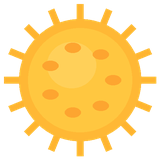
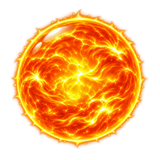
feat(hrb): v0.77.15 approved Mini Sol plasma artwork via PTAB

diff --git a/sw.js b/sw.js
@@ -1,4 +1,4 @@
-const CACHE='hrb-v77-20261125-baguette-art-approved-sports-14';
+const CACHE='hrb-v77-20261125-baguette-art-approved-sports-15';
 const ASSETS=['./','./index.html','./style.css','./manifest.webmanifest','./src/main.js','./src/gulls.js','./src/pitcher.js','./src/engine.js','./src/world.js','./src/biomes.js','./src/game.js','./src/logic.js','./src/audio.js','./src/rewarded.js','./src/aiming.js','./src/sprites.js','./src/traffic.js','./src/discoveries.js','./src/cosmetic-render.js','./src/cosmetic-catalog.js','./src/cosmetic-art.js','./src/baked-assets.js','./assets/baked/manifest.json','./src/impact-fx.js','./src/ball-visuals.js','./src/ball-spin.js','./assets/materials-atlas-v2.png',
  './assets/strike.mp3','./assets/audio/bat-cgeffex.wav','./assets/baseball.webp',
  './assets/bat.webp','./assets/hit-spark.webp','./assets/swing-trail.webp',
@@ -7,10 +7,10 @@ const ASSETS=['./','./index.html','./style.css','./manifest.webmanifest','./src/
  './assets/batter/contact.webp','./assets/batter/follow.webp',
  './icons/icon-32.png','./icons/icon-180.png','./icons/icon-192.png','./icons/icon-512.png',
  './icons/icon-32.png?v=0.77.0','./icons/icon-180.png?v=0.77.0','./icons/icon-192.png?v=0.77.0','./icons/icon-512.png?v=0.77.0',
- './manifest.webmanifest?v=0.77.0','./style.css?v=0.77.0','./src/main.js?v=0.77.14','./src/game.js?v=0.77.14',
- './src/gulls.js?v=0.77.14','./src/pitcher.js?v=0.77.14','./src/world.js?v=0.77.14','./src/biomes.js?v=0.77.14','./src/engine.js?v=0.77.14','./src/logic.js?v=0.77.14',
- './src/audio.js?v=0.77.14','./src/rewarded.js?v=0.77.14','./src/aiming.js?v=0.77.14',
- './src/sprites.js?v=0.77.14','./src/traffic.js?v=0.77.14','./src/discoveries.js?v=0.77.14','./src/cosmetic-render.js?v=0.77.14','./src/cosmetic-catalog.js?v=0.77.14','./src/cosmetic-art.js?v=0.77.14','./src/baked-assets.js?v=0.77.14','./src/impact-fx.js?v=0.77.14','./src/ball-visuals.js?v=0.77.14','./src/ball-spin.js?v=0.77.14','./assets/materials-atlas-v2.png?v=0.77.0','./assets/strike.mp3?v=0.77.0','./assets/audio/bat-cgeffex.wav?v=0.77.0'];
+ './manifest.webmanifest?v=0.77.0','./style.css?v=0.77.0','./src/main.js?v=0.77.15','./src/game.js?v=0.77.15',
+ './src/gulls.js?v=0.77.15','./src/pitcher.js?v=0.77.15','./src/world.js?v=0.77.15','./src/biomes.js?v=0.77.15','./src/engine.js?v=0.77.15','./src/logic.js?v=0.77.15',
+ './src/audio.js?v=0.77.15','./src/rewarded.js?v=0.77.15','./src/aiming.js?v=0.77.15',
+ './src/sprites.js?v=0.77.15','./src/traffic.js?v=0.77.15','./src/discoveries.js?v=0.77.15','./src/cosmetic-render.js?v=0.77.15','./src/cosmetic-catalog.js?v=0.77.15','./src/cosmetic-art.js?v=0.77.15','./src/baked-assets.js?v=0.77.15','./src/impact-fx.js?v=0.77.15','./src/ball-visuals.js?v=0.77.15','./src/ball-spin.js?v=0.77.15','./assets/materials-atlas-v2.png?v=0.77.0','./assets/strike.mp3?v=0.77.0','./assets/audio/bat-cgeffex.wav?v=0.77.0'];
 const OPTIONAL_AUDIO=[
  './assets/audio/bat-cgeffex.mp3?v=0.77.0',
  './assets/audio/asphalt-ball.mp3?v=0.77.0',
@@ -31,7 +31,7 @@ self.addEventListener('install',e=>e.waitUntil(
    ...manifest.balls.map(id=>'./assets/baked/balls/'+id+'.webp')
   ];
   if(previews.length!==100)throw Error('Catálogo incompleto');
-  for(let i=0;i<previews.length;i+=12)await cache.addAll(previews.slice(i,i+12).map(p=>p+(/\/outfits\/chef\/ready\.webp$/.test(p)?'?v=0.77.14':/\/outfits\/luchador\/ready\.webp$/.test(p)?'?v=0.77.13':/\/bats\/trucha\.webp$/.test(p)?'?v=0.77.12':/\/balls\/playa\.webp$/.test(p)?'?v=0.77.11':/\/bats\/martillo\.webp$/.test(p)?'?v=0.77.10':/\/outfits\/basket_lila\/ready\.webp$/.test(p)?'?v=0.77.9':/\/balls\/(?:naranja|nieve)\.webp$/.test(p)?'?v=0.77.8':/\/outfits\/(?:hockey_hielo|basket_rojo)\/ready\.webp$/.test(p)?'?v=0.77.6':/\/bats\/(?:escoba|platano)\.webp$/.test(p)?'?v=0.77.5':/\/outfits\/(?:basket_negro|atletismo|tenis_blanco)\/ready\.webp$/.test(p)?'?v=0.77.4':/\/(?:balls\/(?:tenis|arcoiris)\.webp|bats\/(?:nova|paraguas)\.webp)$/.test(p)?'?v=0.77.3':p.includes('/outfits/futbol_verde/')?'?v=0.77.2':p.includes('/outfits/futbol_rojo/')?'?v=0.77.1':'?v=0.77.0')));
+  for(let i=0;i<previews.length;i+=12)await cache.addAll(previews.slice(i,i+12).map(p=>p+(/\/balls\/sol\.webp$/.test(p)?'?v=0.77.15':/\/outfits\/chef\/ready\.webp$/.test(p)?'?v=0.77.14':/\/outfits\/luchador\/ready\.webp$/.test(p)?'?v=0.77.13':/\/bats\/trucha\.webp$/.test(p)?'?v=0.77.12':/\/balls\/playa\.webp$/.test(p)?'?v=0.77.11':/\/bats\/martillo\.webp$/.test(p)?'?v=0.77.10':/\/outfits\/basket_lila\/ready\.webp$/.test(p)?'?v=0.77.9':/\/balls\/(?:naranja|nieve)\.webp$/.test(p)?'?v=0.77.8':/\/outfits\/(?:hockey_hielo|basket_rojo)\/ready\.webp$/.test(p)?'?v=0.77.6':/\/bats\/(?:escoba|platano)\.webp$/.test(p)?'?v=0.77.5':/\/outfits\/(?:basket_negro|atletismo|tenis_blanco)\/ready\.webp$/.test(p)?'?v=0.77.4':/\/(?:balls\/(?:tenis|arcoiris)\.webp|bats\/(?:nova|paraguas)\.webp)$/.test(p)?'?v=0.77.3':p.includes('/outfits/futbol_verde/')?'?v=0.77.2':p.includes('/outfits/futbol_rojo/')?'?v=0.77.1':'?v=0.77.0')));
  }).then(()=>self.skipWaiting())
 ));
 self.addEventListener('activate',e=>e.waitUntil(caches.keys().then(keys=>Promise.all(keys.filter(k=>k!==CACHE).map(k=>caches.delete(k)))).then(()=>self.clients.claim())));

diff --git a/src/game.js b/src/game.js
@@ -1,18 +1,18 @@
-import {Renderer,CanvasRenderer,lerp} from './engine.js?v=0.77.14';
-import {drawWorld,groundAt,areaAt,traceBuildingCollision,traceStadiumContainerCollision,traceStadiumFenceCollision} from './world.js?v=0.77.14';
-import {traceSideBoundary,WORLD_CENTER_X,WORLD_HALF_WIDTH} from './biomes.js?v=0.77.14';
-import {SAVE_KEY,sanitizeSave,initialSave,formatInt,upgradeCost,upgrade,bonusCredits,bonusProgress,BONUS_EVERY,claimBonus,skillMaxLevel,calculateShot,pitchTimingDeltaMs,pitchTimingGuide,settleShot,forwardDistance,coinMultiplier,MILESTONES,COSMETICS,OUTFITS,BALL_STYLES,SHOP_SECTIONS,equipCosmetic,qualityNames,clamp} from './logic.js?v=0.77.14';
-import {recordDiscoveryShot,discoveredCount,nextDiscoveryHint,isDiscovered} from './discoveries.js?v=0.77.14';
-import {GameAudio} from './audio.js?v=0.77.14';
-import {hasRewardedAds,showRewardedAd} from './rewarded.js?v=0.77.14';
-import {aimSweep,aimBarPosition,aimSweetHalf,preciseAim,redirectShot,aimDegrees,SWEEP_MAX_RAD} from './aiming.js?v=0.77.14';
-import {BatterSprites} from './sprites.js?v=0.77.14';
-import {bakedAssetUrl} from './baked-assets.js?v=0.77.14';
-import {ImpactEffects,hitStopDuration} from './impact-fx.js?v=0.77.14';
-import {initBallSpin,onSpinImpact,integratePhysicalSpin,advanceVisualSpin,freezeBallSpin} from './ball-spin.js?v=0.77.14';
-import {traceTrafficCollision,trafficDeflection} from './traffic.js?v=0.77.14';
-import {pitcherReactionPlan} from './pitcher.js?v=0.77.14';
-import {planGullEncounter,traceGullCollision,gullDeflection} from './gulls.js?v=0.77.14';
+import {Renderer,CanvasRenderer,lerp} from './engine.js?v=0.77.15';
+import {drawWorld,groundAt,areaAt,traceBuildingCollision,traceStadiumContainerCollision,traceStadiumFenceCollision} from './world.js?v=0.77.15';
+import {traceSideBoundary,WORLD_CENTER_X,WORLD_HALF_WIDTH} from './biomes.js?v=0.77.15';
+import {SAVE_KEY,sanitizeSave,initialSave,formatInt,upgradeCost,upgrade,bonusCredits,bonusProgress,BONUS_EVERY,claimBonus,skillMaxLevel,calculateShot,pitchTimingDeltaMs,pitchTimingGuide,settleShot,forwardDistance,coinMultiplier,MILESTONES,COSMETICS,OUTFITS,BALL_STYLES,SHOP_SECTIONS,equipCosmetic,qualityNames,clamp} from './logic.js?v=0.77.15';
+import {recordDiscoveryShot,discoveredCount,nextDiscoveryHint,isDiscovered} from './discoveries.js?v=0.77.15';
+import {GameAudio} from './audio.js?v=0.77.15';
+import {hasRewardedAds,showRewardedAd} from './rewarded.js?v=0.77.15';
+import {aimSweep,aimBarPosition,aimSweetHalf,preciseAim,redirectShot,aimDegrees,SWEEP_MAX_RAD} from './aiming.js?v=0.77.15';
+import {BatterSprites} from './sprites.js?v=0.77.15';
+import {bakedAssetUrl} from './baked-assets.js?v=0.77.15';
+import {ImpactEffects,hitStopDuration} from './impact-fx.js?v=0.77.15';
+import {initBallSpin,onSpinImpact,integratePhysicalSpin,advanceVisualSpin,freezeBallSpin} from './ball-spin.js?v=0.77.15';
+import {traceTrafficCollision,trafficDeflection} from './traffic.js?v=0.77.15';
+import {pitcherReactionPlan} from './pitcher.js?v=0.77.15';
+import {planGullEncounter,traceGullCollision,gullDeflection} from './gulls.js?v=0.77.15';
 const el=id=>document.getElementById(id);
 // Rozamiento continuo por segundo: una cola de rodadura algo más larga,
 // independiente de los FPS, sin alterar el vuelo ni la pérdida al rebotar.

diff --git a/tests/pwa-refresh.test.js b/tests/pwa-refresh.test.js
@@ -8,12 +8,12 @@ test('v0.50 evita mezclar versiones de CSS, JS, WebAudio y PWA en caché',()=>{
  const sw=readFileSync(new URL('../sw.js',import.meta.url),'utf8');
  const main=readFileSync(new URL('../src/main.js',import.meta.url),'utf8');
  assert.match(html,/style\.css\?v=0\.77\.0/);
- assert.match(html,/src\/main\.js\?v=0\.77\.14/);
- assert.match(main,/game\.js\?v=0\.77\.14/);
+ assert.match(html,/src\/main\.js\?v=0\.77\.15/);
+ assert.match(main,/game\.js\?v=0\.77\.15/);
  for(const src of ['main.js','logic.js','engine.js','game.js','world.js','sprites.js','traffic.js','discoveries.js','cosmetic-render.js','cosmetic-catalog.js','cosmetic-art.js','baked-assets.js','impact-fx.js']){
   const code=readFileSync(new URL('../src/'+src,import.meta.url),'utf8');
   for(const [,path] of code.matchAll(/from '(\.\/[^']+\.js(?:\?[^']+)?)'/g)){
-   assert.ok(path.endsWith('?v=0.77.14'),src+' importa módulo sin versión: '+path);
+   assert.ok(path.endsWith('?v=0.77.15'),src+' importa módulo sin versión: '+path);
   }
  }
  assert.match(sw,/hrb-v77-20261125-baguette-art/);
@@ -21,14 +21,14 @@ test('v0.50 evita mezclar versiones de CSS, JS, WebAudio y PWA en caché',()=>{
  assert.match(sw,/caches\.match\(request\)/);
  assert.match(sw,/clients\.claim/);
  assert.match(sw,/\.\/assets\/strike\.mp3/);
- assert.match(sw,/\.\/src\/biomes\.js\?v=0\.77\.14/);
- assert.match(sw,/\.\/src\/cosmetic-render\.js\?v=0\.77\.14/);
- assert.match(sw,/\.\/src\/cosmetic-catalog\.js\?v=0\.77\.14/);
- assert.match(sw,/\.\/src\/cosmetic-art\.js\?v=0\.77\.14/);
- assert.match(sw,/\.\/src\/baked-assets\.js\?v=0\.77\.14/);
+ assert.match(sw,/\.\/src\/biomes\.js\?v=0\.77\.15/);
+ assert.match(sw,/\.\/src\/cosmetic-render\.js\?v=0\.77\.15/);
+ assert.match(sw,/\.\/src\/cosmetic-catalog\.js\?v=0\.77\.15/);
+ assert.match(sw,/\.\/src\/cosmetic-art\.js\?v=0\.77\.15/);
+ assert.match(sw,/\.\/src\/baked-assets\.js\?v=0\.77\.15/);
  assert.match(sw,/\.\/assets\/baked\/manifest\.json/);
- assert.match(sw,/\.\/src\/traffic\.js\?v=0\.77\.14/);
- assert.match(sw,/\.\/src\/discoveries\.js\?v=0\.77\.14/);
+ assert.match(sw,/\.\/src\/traffic\.js\?v=0\.77\.15/);
+ assert.match(sw,/\.\/src\/discoveries\.js\?v=0\.77\.15/);
  assert.doesNotMatch(sw,/assets\/traffic\//);
 });
 
@@ -82,7 +82,7 @@ test('sprites aprobados persisten durante apuntado, sin dibujar la flecha antigu
 });
 
  test('Baskonia name is identical in the versioned catalog and discovery',async()=>{
- const {OUTFIT_CATALOG}=await import('../src/cosmetic-catalog.js?v=0.77.14');
+ const {OUTFIT_CATALOG}=await import('../src/cosmetic-catalog.js?v=0.77.15');
  const item=OUTFIT_CATALOG.find(x=>x.id==='basket_rojo');
  assert.equal(item.name,'Baloncesto Baskonia');
  assert.equal(item.price,3800);

diff --git a/src/baked-assets.js b/src/baked-assets.js
@@ -8,7 +8,7 @@ export function bakedAssetUrl(category,id,pose='ready',withoutBat=false){
  if(!/^[a-z0-9_]+$/.test(String(id)))throw Error('Invalid cosmetic id');
  // Versionar también los WEBP horneados: Safari/PWA no debe conservar
  // ni la pelota de tenis lisa ni poses con restos del bate anterior.
- const stamp=category==='outfit'&&id==='chef'?'?v=0.77.14':category==='outfit'&&id==='luchador'?'?v=0.77.13':category==='bat'&&id==='trucha'?'?v=0.77.12':category==='ball'&&id==='playa'?'?v=0.77.11':category==='bat'&&id==='martillo'?'?v=0.77.10':category==='outfit'&&id==='basket_lila'?'?v=0.77.9':category==='ball'&&['naranja','nieve'].includes(id)?'?v=0.77.8':category==='outfit'&&['hockey_hielo','basket_rojo'].includes(id)?'?v=0.77.6':category==='bat'&&['escoba','platano'].includes(id)?'?v=0.77.5':category==='outfit'&&['basket_negro','atletismo','tenis_blanco'].includes(id)?'?v=0.77.4':(category==='ball'&&['tenis','arcoiris'].includes(id)||category==='bat'&&['nova','paraguas'].includes(id))?'?v=0.77.3':category==='outfit'&&id==='futbol_verde'?'?v=0.77.2':id==='futbol_rojo'&&category==='outfit'?'?v=0.77.1':'?v=0.77.0';
+ const stamp=category==='ball'&&id==='sol'?'?v=0.77.15':category==='outfit'&&id==='chef'?'?v=0.77.14':category==='outfit'&&id==='luchador'?'?v=0.77.13':category==='bat'&&id==='trucha'?'?v=0.77.12':category==='ball'&&id==='playa'?'?v=0.77.11':category==='bat'&&id==='martillo'?'?v=0.77.10':category==='outfit'&&id==='basket_lila'?'?v=0.77.9':category==='ball'&&['naranja','nieve'].includes(id)?'?v=0.77.8':category==='outfit'&&['hockey_hielo','basket_rojo'].includes(id)?'?v=0.77.6':category==='bat'&&['escoba','platano'].includes(id)?'?v=0.77.5':category==='outfit'&&['basket_negro','atletismo','tenis_blanco'].includes(id)?'?v=0.77.4':(category==='ball'&&['tenis','arcoiris'].includes(id)||category==='bat'&&['nova','paraguas'].includes(id))?'?v=0.77.3':category==='outfit'&&id==='futbol_verde'?'?v=0.77.2':id==='futbol_rojo'&&category==='outfit'?'?v=0.77.1':'?v=0.77.0';
  if(category==='outfit'){
   if(!OUTFIT_POSES.includes(pose))throw Error('Invalid pose');
   return './assets/baked/outfits/'+id+'/'+pose+(withoutBat?'-nobat':'')+'.webp'+stamp;

diff --git a/index.html b/index.html
@@ -42,7 +42,7 @@
         <div class="menu-stats"><span>RÉCORD <strong id="menu-best">0 m</strong></span><span>GOLPES <strong id="menu-shots">0</strong></span><span>REGIÓN <strong id="menu-region">ESTADIO</strong></span></div>
         <div class="menu-equipment" id="menu-equipment">🏏 Clásico · 👕 Rojo · ⚾ Blanca</div>
         <small>Sin registro · Partidas rápidas · Guardado local</small>
-        <small class="menu-version">VERSIÓN 0.77.14</small>
+        <small class="menu-version">VERSIÓN 0.77.15</small>
       </div>
     </div>
   </section>
@@ -185,7 +185,7 @@
         <button id="settings-reset" class="setting-action setting-danger">Restablecer todos los datos de este dispositivo</button>
         <p class="settings-explain">Sin registro. Monedas, mejoras y cosméticos solo en este dispositivo. Borrar datos es irreversible.</p>
       </div>
-      <div class="foot-note">Home Run Beyond · CraftRace Studio · Versión 0.77.14</div>
+      <div class="foot-note">Home Run Beyond · CraftRace Studio · Versión 0.77.15</div>
     </div>
   </section>
   <section class="layer modal-shell" id="welcome" hidden>
@@ -201,6 +201,6 @@
   </section>
   <div id="quality" class="quality low"><span>CALIDAD</span> <strong id="fps">— FPS</strong></div>
 </div>
-<script type="module" src="./src/main.js?v=0.77.14"></script>
+<script type="module" src="./src/main.js?v=0.77.15"></script>
 </body>
 </html>

diff --git a/src/world.js b/src/world.js
@@ -1,8 +1,8 @@
-import {lerp} from './engine.js?v=0.77.14';
-import {drawGulls} from './gulls.js?v=0.77.14';
-import {pitcherPose,PITCHER_Z} from './pitcher.js?v=0.77.14';
-import {visibleRoadTraffic,drawProceduralTraffic} from './traffic.js?v=0.77.14';
-import {WORLD_CENTER_X,WORLD_HALF_WIDTH,WORLD_WIDTH,biomeAt,biomeTransitionAt,biomeColorAt,mixColors,boundaryProfileAt} from './biomes.js?v=0.77.14';
+import {lerp} from './engine.js?v=0.77.15';
+import {drawGulls} from './gulls.js?v=0.77.15';
+import {pitcherPose,PITCHER_Z} from './pitcher.js?v=0.77.15';
+import {visibleRoadTraffic,drawProceduralTraffic} from './traffic.js?v=0.77.15';
+import {WORLD_CENTER_X,WORLD_HALF_WIDTH,WORLD_WIDTH,biomeAt,biomeTransitionAt,biomeColorAt,mixColors,boundaryProfileAt} from './biomes.js?v=0.77.15';
 // Mundo entero dibujado con primitivas low-poly, sin ningún asset externo.
 const PI=Math.PI;
 export const rand=(a,b=0)=>{let n=Math.sin(a*127.1+b*311.7+26.63)*43758.5453;return n-Math.floor(n)};

diff --git a/src/sprites.js b/src/sprites.js
@@ -1,8 +1,8 @@
-import {lookAt,perspective,mul4} from './engine.js?v=0.77.14';
-import {surfaceBelowBall,pitcherBallPosition} from './world.js?v=0.77.14';
-import {ballSpriteDiameter,ballShadowOpacity} from './ball-visuals.js?v=0.77.14';
-import {COSMETICS,OUTFITS,BALL_STYLES} from './logic.js?v=0.77.14';
-import {bakedAssetUrl,equippedAssetPaths,WEAPON_POSES,OUTFIT_WEAPON_POSES} from './baked-assets.js?v=0.77.14';
+import {lookAt,perspective,mul4} from './engine.js?v=0.77.15';
+import {surfaceBelowBall,pitcherBallPosition} from './world.js?v=0.77.15';
+import {ballSpriteDiameter,ballShadowOpacity} from './ball-visuals.js?v=0.77.15';
+import {COSMETICS,OUTFITS,BALL_STYLES} from './logic.js?v=0.77.15';
+import {bakedAssetUrl,equippedAssetPaths,WEAPON_POSES,OUTFIT_WEAPON_POSES} from './baked-assets.js?v=0.77.15';
 
 
 // Recortes 2.5D tomados de las tres láminas aprobadas. No hay re-render ni

diff --git a/tests/baked-assets.test.js b/tests/baked-assets.test.js
@@ -216,3 +216,13 @@ test('approved trout bat artwork survives the bake',()=>{
  assert.match(bakedAssetUrl('bat','trucha'),/v=0\.77\.12$/);
  assert.equal(BAT_CATALOG.find(x=>x.id==='trucha').price,4200);
 });
+
+
+test('approved Mini Sol plasma artwork survives the bake byte for byte',()=>{
+ const approved=readFileSync(new URL('../assets/approved/balls/sol.webp',import.meta.url));
+ const baked=readFileSync(new URL('../assets/baked/balls/sol.webp',import.meta.url));
+ assert.equal(approved.toString('ascii',8,12),'WEBP');
+ assert.deepEqual(baked,approved);
+ assert.match(bakedAssetUrl('ball','sol'),/v=0\.77\.15$/);
+ assert.equal(BALL_CATALOG.find(x=>x.id==='sol').price,4300);
+});

diff --git a/src/discoveries.js b/src/discoveries.js
@@ -2,7 +2,7 @@
 // Comprar/equipar es otra acción: el precio orienta cuándo revelar cada objeto,
 // pero gastar en habilidades nunca hace retroceder los descubrimientos.
 // Regla estable por ID para no reordenar lo descubierto al crecer el catálogo.
-import {BAT_CATALOG,OUTFIT_CATALOG,BALL_CATALOG} from './cosmetic-catalog.js?v=0.77.14';
+import {BAT_CATALOG,OUTFIT_CATALOG,BALL_CATALOG} from './cosmetic-catalog.js?v=0.77.15';
 
 export const COLLECTIONS=Object.freeze({bat:BAT_CATALOG,outfit:OUTFIT_CATALOG,ball:BALL_CATALOG});
 export const STARTER_DISCOVERIES=Object.freeze(['bat:classic','outfit:red','ball:classic']);

diff --git a/src/logic.js b/src/logic.js
@@ -1,5 +1,5 @@
-import {BAT_CATALOG,OUTFIT_CATALOG,BALL_CATALOG} from './cosmetic-catalog.js?v=0.77.14';
-import {STARTER_DISCOVERIES,INITIAL_DISCOVERY_STATS,sanitizeDiscovery,isDiscovered} from './discoveries.js?v=0.77.14';
+import {BAT_CATALOG,OUTFIT_CATALOG,BALL_CATALOG} from './cosmetic-catalog.js?v=0.77.15';
+import {STARTER_DISCOVERIES,INITIAL_DISCOVERY_STATS,sanitizeDiscovery,isDiscovered} from './discoveries.js?v=0.77.15';
 export const SAVE_KEY='hrb-v1-progress';
 export const MAX_LEVEL=10000;
 export const MULTIPLIER_MAX_LEVEL=51;

diff --git a/src/cosmetic-art.js b/src/cosmetic-art.js
@@ -1,7 +1,7 @@
 // Dibujo 2D procedural, 100% local/offline. Una mini luna tiene cráteres,
 // una escoba tiene cerdas, una trucha tiene aletas; nunca se simulan con un tinte.
 // Los sprites originales del jugador son la base para preservar sus poses.
-import {makeCosmeticCanvas} from './cosmetic-render.js?v=0.77.14';
+import {makeCosmeticCanvas} from './cosmetic-render.js?v=0.77.15';
 
 export const ILLUSTRATED_BALLS=new Set([
  'rainbow','sun','moon','earth','mars','saturn','billiard','tennis','golf',

diff --git a/src/main.js b/src/main.js
@@ -1,4 +1,4 @@
-import {BaseballGame} from './game.js?v=0.77.14';
+import {BaseballGame} from './game.js?v=0.77.15';
 const game=new BaseballGame();
 // Exponer diagnóstico en ?debug=1 para pruebas, sin contaminar el modo jugador.
 if(new URLSearchParams(location.search).has('debug'))window.hrbDebug={game,shot:()=>game.onAction(),levels:game.save.levels,renderer:game.renderer};
